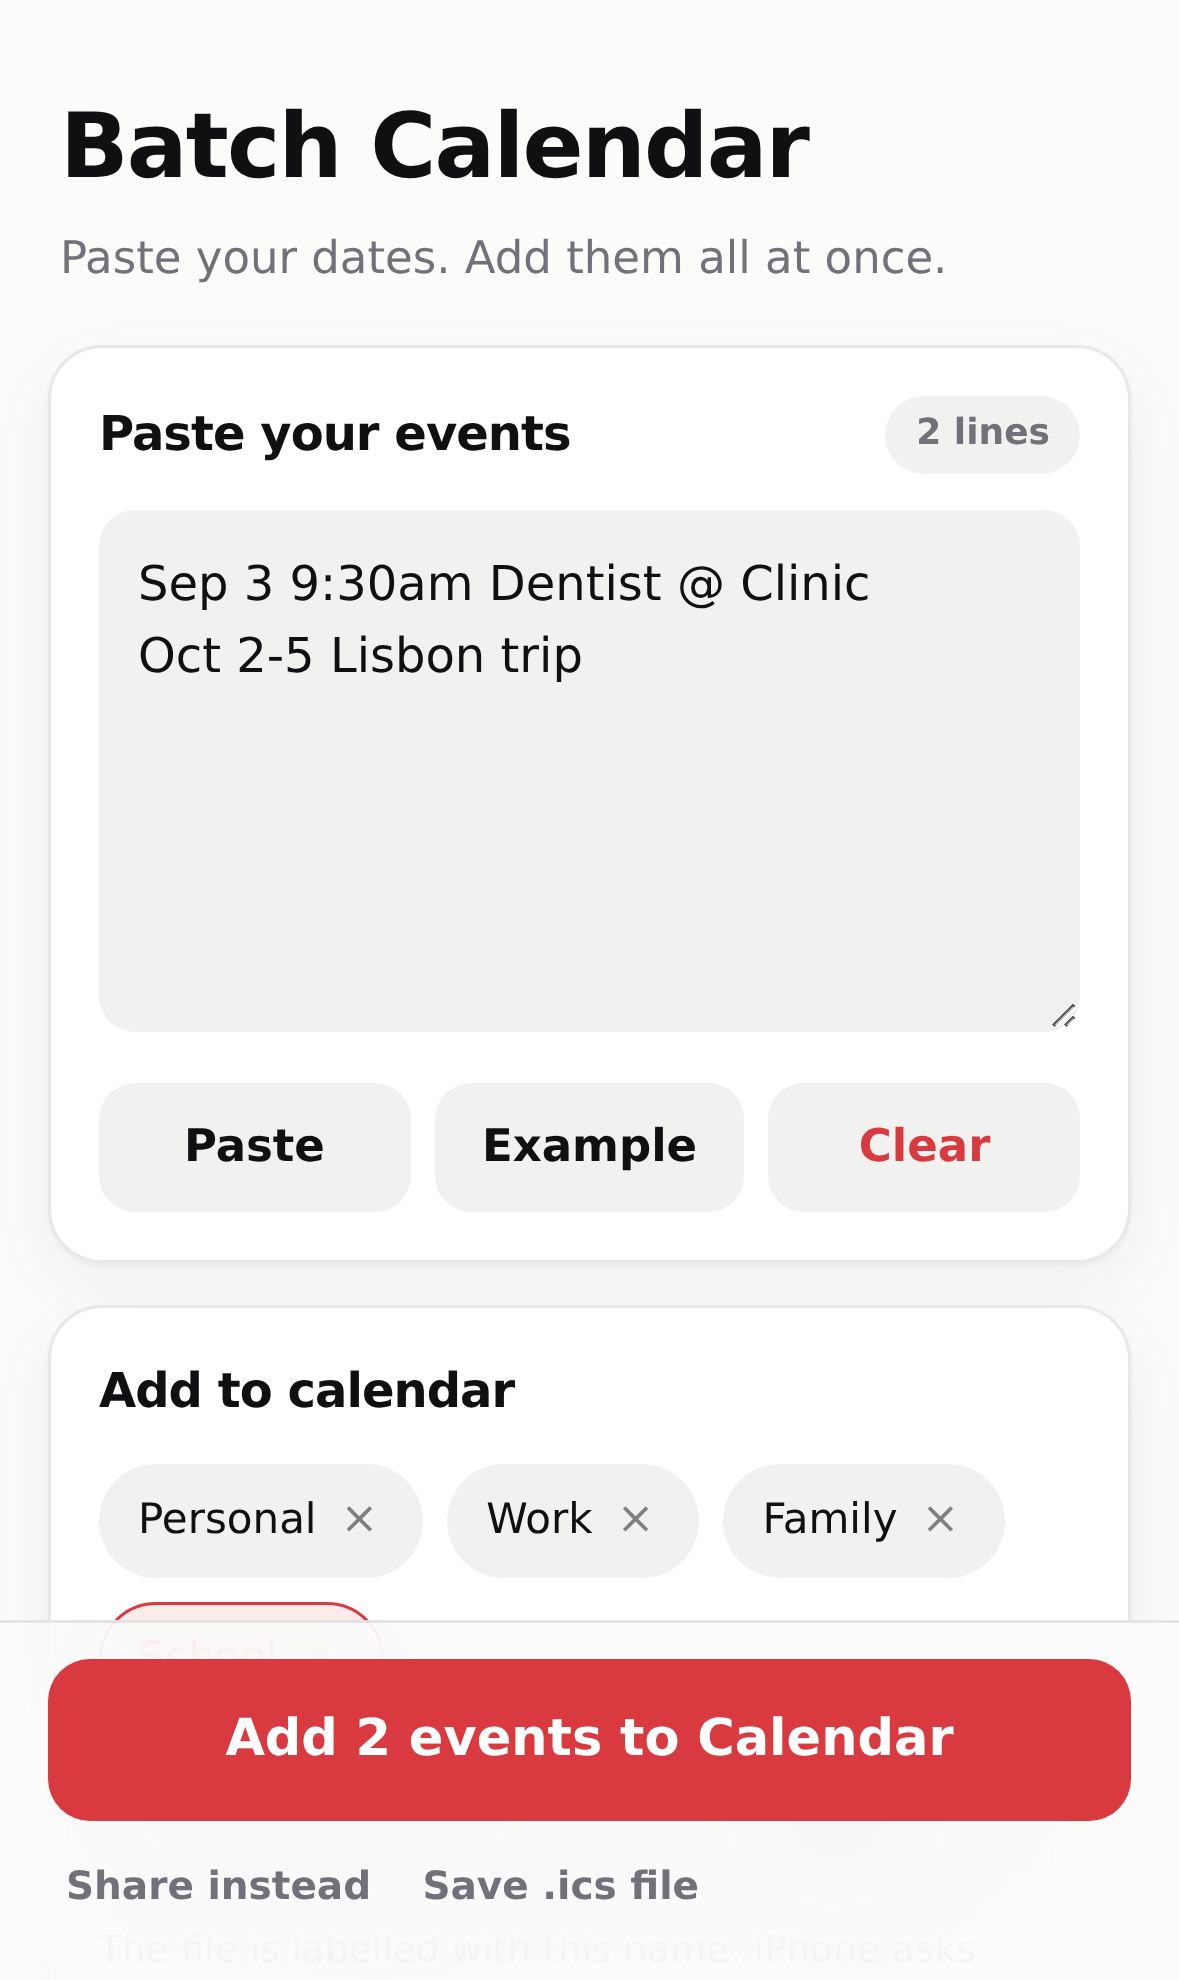
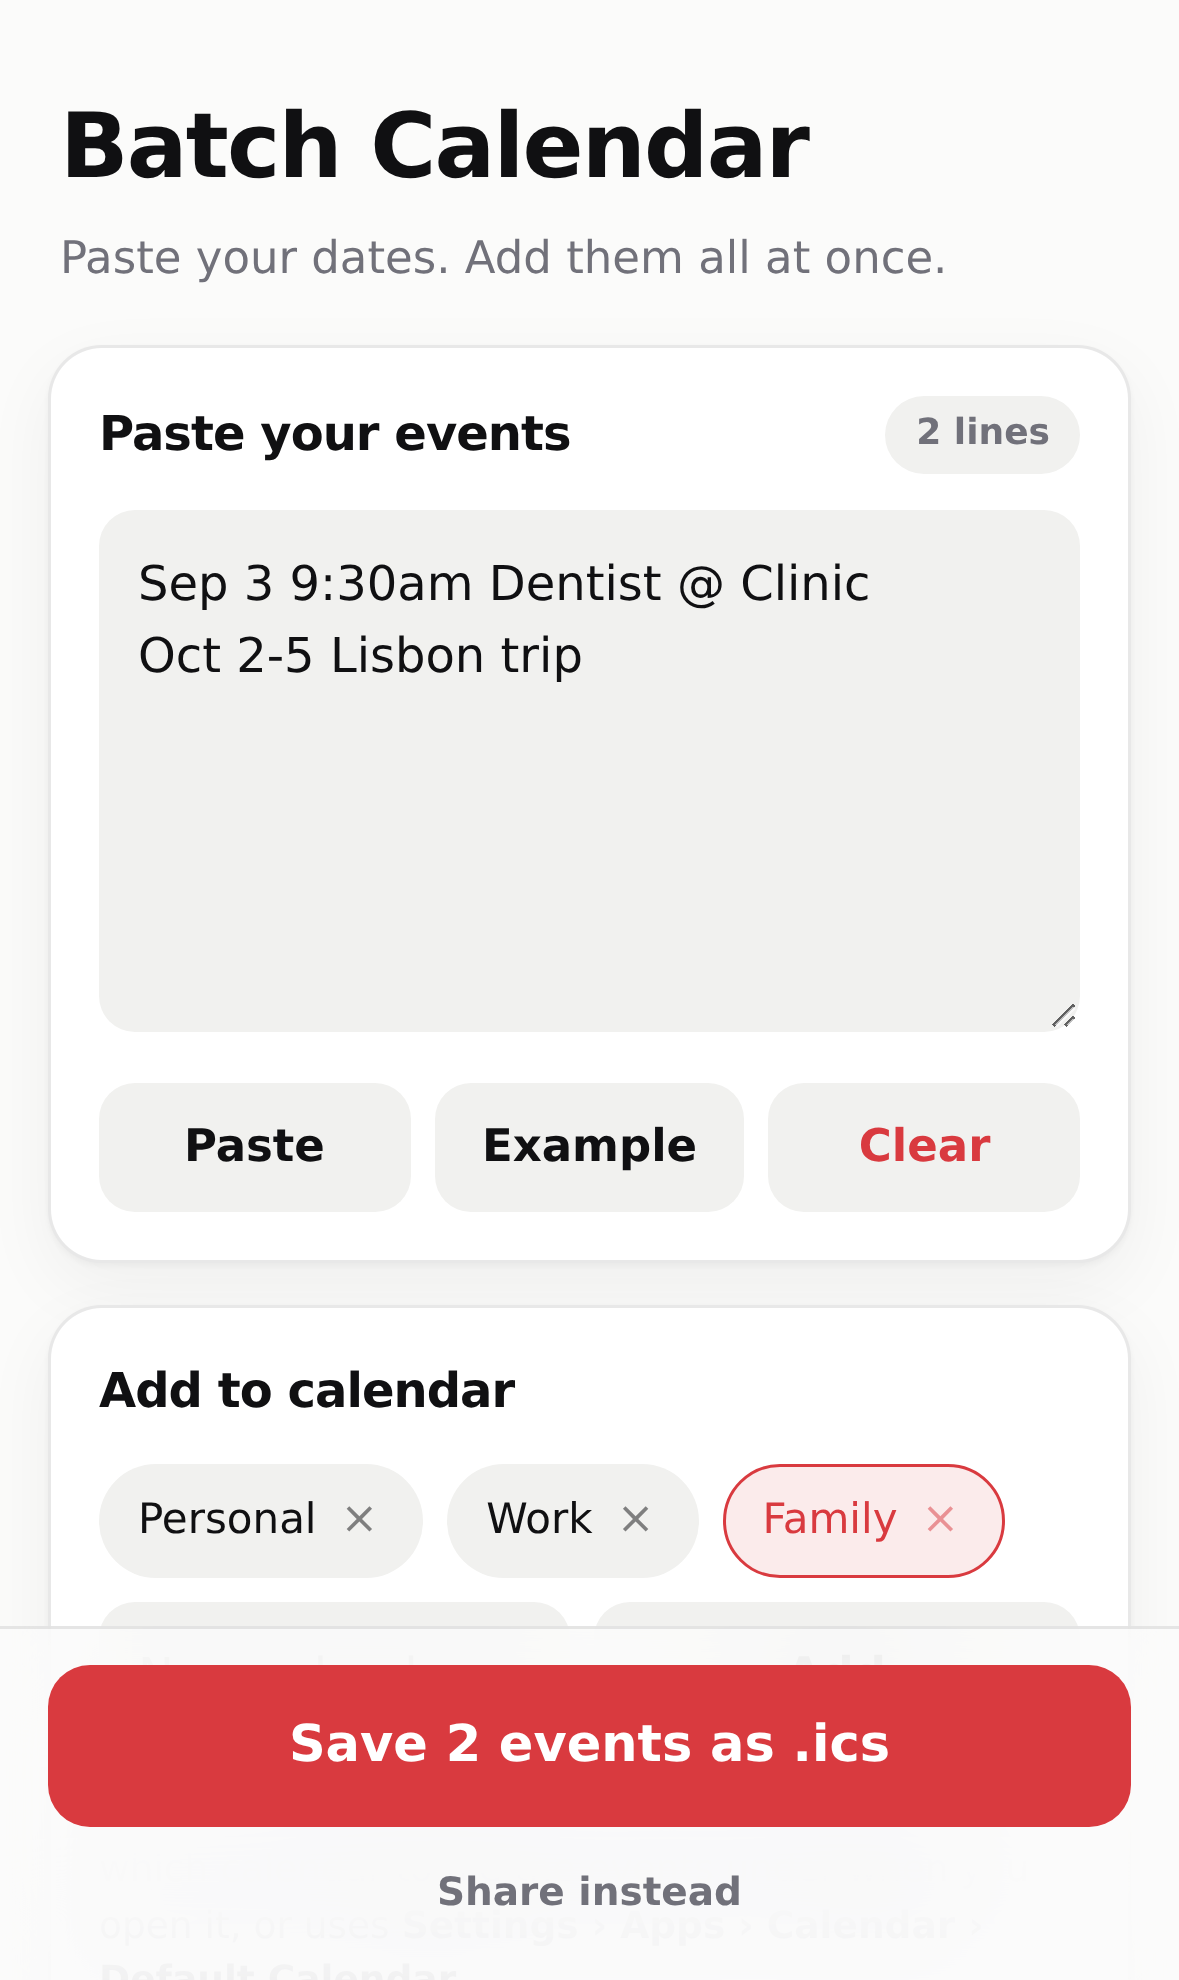
Make saving the file the main action
Saving the .ics and opening it from Files is what works on the phone,
so it becomes the large primary button, labelled with the number of
events it will write. Sharing drops to a quiet second line for sending
a list somewhere else, and falls back to saving where no share sheet
exists.

This also removes the service worker hand-off that shipped in the
previous version: the page no longer stages the batch in a cache for
the worker to serve as text/calendar, and the link that opened it is
gone. It was built for a problem that turned out not to exist, and it
was the button this change replaces.

METHOD:PUBLISH comes back to the file with it, so what gets saved is
byte-for-byte the format already confirmed working on the phone.

The help section now covers the two routes instead of guessing at
calendar pickers, and notes that saving again after an edit writes a
fresh file rather than changing one already saved.

Version goes to 1.3.0, past the 1.2.0 already deployed, so installed
copies pick the change up.

Claude-Session: https://claude.ai/code/session_01HNhjKiH9bVPzuXmCti7oSX

diff --git a/assets/app.js b/assets/app.js
@@ -18,7 +18,7 @@ const el = {
   alarm: $('alarm'), rollForward: $('roll-forward'),
   previewCard: $('preview-card'), list: $('event-list'), count: $('event-count'),
   skipped: $('skipped'), skippedList: $('skipped-list'), empty: $('empty-state'),
-  add: $('add'), share: $('share'), download: $('download'), dockMore: $('dock-more'), version: $('version'),
+  download: $('download'), share: $('share'), version: $('version'),
   banner: $('update-banner'), reload: $('update-reload'), dismiss: $('update-dismiss'),
 };
 
@@ -133,10 +133,9 @@ function paint() {
   el.count.classList.toggle('good', total > 0);
   el.previewCard.hidden = total === 0 && state.skipped.length === 0;
   el.empty.hidden = !el.previewCard.hidden;
-  el.add.textContent = total ? `Add ${total} ${total === 1 ? 'event' : 'events'} to Calendar` : 'Add to Calendar';
-  el.add.setAttribute('aria-disabled', String(total === 0));
-  el.dockMore.hidden = total === 0;
-  stageCalendar();
+  el.download.disabled = total === 0;
+  el.download.textContent = total ? `Save ${total} ${total === 1 ? 'event' : 'events'} as .ics` : 'Save .ics file';
+  el.share.hidden = total === 0;
 
   el.list.replaceChildren(...state.events.map(renderEvent));
 
@@ -246,45 +245,11 @@ function renderCalendars() {
 
 /* ---------------------------------------------------------------- delivery */
 
-const OUTBOX = 'batch-calendar-outbox';
-
 function icsForCurrentEvents() {
   return buildICS(state.events, {
     calendarName: state.calendar,
     alarmMinutes: state.options.alarm === '' ? null : Number(state.options.alarm),
   });
-}
-
-/*
- * iOS only opens a calendar file that arrives as a text/calendar *response* —
- * a saved .ics just sits in Files with no way in. So the file is written into
- * a cache the service worker serves from, and the button is a plain link to
- * it: tapping it hands the events to Calendar with no popup blocking.
- */
-let staging = Promise.resolve();
-function stageCalendar() {
-  // Runs on every render, so keep the writes in a queue: two overlapping
-  // stagings could otherwise leave a stale batch behind for the link to serve.
-  staging = staging.then(writeStagedCalendar).catch(() => {});
-  return staging;
-}
-
-async function writeStagedCalendar() {
-  el.add.removeAttribute('data-staged');
-  if (!state.events.length || !navigator.serviceWorker?.controller) return;
-
-  const url = new URL(`./${icsFilename(state.calendar)}?v=${Date.now()}`, location.href);
-  try {
-    const cache = await caches.open(OUTBOX);
-    for (const stale of await cache.keys()) await cache.delete(stale);
-    await cache.put(url, new Response(icsForCurrentEvents(), {
-      headers: { 'Content-Type': 'text/calendar; charset=utf-8', 'Cache-Control': 'no-store' },
-    }));
-    el.add.href = url.href;
-    el.add.setAttribute('data-staged', 'true');
-  } catch {
-    // Storage refused (private mode, no quota) — the fallbacks below still work.
-  }
 }
 
 function saveFile(text, filename) {
@@ -298,7 +263,14 @@ function saveFile(text, filename) {
   setTimeout(() => URL.revokeObjectURL(url), 10000);
 }
 
-/** The share sheet, where Calendar is one of the destinations. */
+/** The main action: write the batch out as a file to open from Files. */
+function saveCalendar() {
+  if (!state.events.length) return;
+  saveFile(icsForCurrentEvents(), icsFilename(state.calendar));
+  toast('Saved — open it from Files to add the events');
+}
+
+/** The share sheet, for sending the batch somewhere else. */
 async function shareCalendar() {
   if (!state.events.length) return;
   const text = icsForCurrentEvents();
@@ -313,8 +285,7 @@ async function shareCalendar() {
       if (error?.name === 'AbortError') return;   // the user closed the share sheet
     }
   }
-  saveFile(text, filename);
-  toast('Saved to Files — open it from there');
+  saveCalendar();   // no share sheet here — fall back to the file
 }
 
 /* ------------------------------------------------------------------- toast */
@@ -381,7 +352,6 @@ el.calendarForm.addEventListener('submit', (event) => {
   el.calendarNew.blur();
   save();
   renderCalendars();
-  stageCalendar();
 });
 
 const optionInputs = [
@@ -399,19 +369,8 @@ for (const [node, key, read] of optionInputs) {
   });
 }
 
-el.add.addEventListener('click', (event) => {
-  if (!state.events.length) return event.preventDefault();
-  if (el.add.hasAttribute('data-staged')) return toast('Tap Add All in Calendar');
-  // No service worker yet (first load, or it failed) — hand over the file instead.
-  event.preventDefault();
-  shareCalendar();
-});
-
+el.download.addEventListener('click', saveCalendar);
 el.share.addEventListener('click', shareCalendar);
-el.download.addEventListener('click', () => {
-  saveFile(icsForCurrentEvents(), icsFilename(state.calendar));
-  toast('Saved to Files — Add to Calendar opens it properly');
-});
 
 /* --------------------------------------------------- service worker updates */
 
@@ -453,7 +412,6 @@ function registerServiceWorker() {
   }).catch(() => { /* offline, or opened straight from the file system */ });
 
   el.dismiss.addEventListener('click', () => { el.banner.hidden = true; });
-  navigator.serviceWorker.ready.then(stageCalendar);
   showVersion();
 }
 

diff --git a/index.html b/index.html
@@ -53,8 +53,8 @@
         autocomplete="off" autocapitalize="words" enterkeyhint="done">
       <button type="submit" class="btn btn-quiet">Add</button>
     </form>
-    <p class="note">The file is labelled with this name. iPhone asks which calendar to file the events under when it
-      opens them, or uses <strong>Settings › Apps › Calendar › Default Calendar</strong>.</p>
+    <p class="note">The file is labelled with this name. iPhone asks which calendar to file the events under when
+      you open it, or uses <strong>Settings › Apps › Calendar › Default Calendar</strong>.</p>
   </section>
 
   <details class="card card-details" id="options">
@@ -118,21 +118,14 @@
   </section>
 
   <details class="card card-details">
-    <summary><h2>If the events do not open</h2><span class="chev" aria-hidden="true"></span></summary>
+    <summary><h2>Getting the events onto your calendar</h2><span class="chev" aria-hidden="true"></span></summary>
     <div class="options-grid">
-      <p class="note" style="margin-top:0">
-        <strong>Add to Calendar</strong> opens the events in Safari, which hands them straight to Calendar —
-        tap <strong>Add All</strong>. This is the route to use on iPhone.
-      </p>
-      <p class="note">
-        <strong>Share instead</strong> passes the file to the share sheet, where you can pick Calendar or send the
-        list to someone else.
-      </p>
-      <p class="note">
-        <strong>Save .ics file</strong> only puts the file in Files. Tapping it there shows a preview with no way to
-        import — that is iOS, not the file. To use a saved file, long-press it in Files and choose
-        <strong>Share</strong>, or just use <strong>Add to Calendar</strong> instead.
-      </p>
+      <p class="note" style="margin-top:0"><strong>Save .ics file</strong> saves the batch to Files. Open it from
+        there and add the events — this is the route to use on iPhone.</p>
+      <p class="note"><strong>Share instead</strong> passes the same file to the share sheet, for sending the list
+        to someone else or opening it in another app.</p>
+      <p class="note">The file holds every event in the preview. Saving again after an edit makes a fresh file
+        rather than changing the old one.</p>
     </div>
   </details>
 
@@ -154,11 +147,8 @@
 </main>
 
 <div class="dock">
-  <a id="add" class="btn btn-primary" href="#" target="_blank" rel="noopener" aria-disabled="true">Add to Calendar</a>
-  <div class="dock-row" id="dock-more" hidden>
-    <button type="button" id="share" class="btn btn-quiet btn-small">Share instead</button>
-    <button type="button" id="download" class="btn btn-quiet btn-small">Save .ics file</button>
-  </div>
+  <button type="button" id="download" class="btn btn-primary" disabled>Save .ics file</button>
+  <button type="button" id="share" class="btn btn-quiet btn-small" hidden>Share instead</button>
 </div>
 
 <footer class="footer">

diff --git a/sw.js b/sw.js
@@ -1,19 +1,13 @@
 /*
- * sw.js — offline shell, the update channel, and the calendar hand-off.
+ * sw.js — offline shell plus the update channel.
  *
  * Bump VERSION on every deploy: a new version installs alongside the old one,
  * tells the page a build is waiting, and only takes over when the user taps
  * Update (or every tab has closed).
- *
- * The hand-off matters on iOS: a saved .ics only ever opens in a Files
- * preview, but a URL answered with `Content-Type: text/calendar` is handed
- * to Calendar. The page stages the file in OUTBOX and opens its URL; the
- * fetch handler below answers with it.
  */
 
-const VERSION = '1.2.0';
+const VERSION = '1.3.0';
 const CACHE = `batch-calendar-${VERSION}`;
-const OUTBOX = 'batch-calendar-outbox';
 
 const SHELL = [
   './',
@@ -36,9 +30,7 @@ self.addEventListener('install', (event) => {
 self.addEventListener('activate', (event) => {
   event.waitUntil((async () => {
     const names = await caches.keys();
-    await Promise.all(names
-      .filter((name) => name !== CACHE && name !== OUTBOX)
-      .map((name) => caches.delete(name)));
+    await Promise.all(names.filter((name) => name !== CACHE).map((name) => caches.delete(name)));
     await self.clients.claim();
   })());
 });
@@ -57,12 +49,6 @@ self.addEventListener('fetch', (event) => {
   if (request.method !== 'GET' || new URL(request.url).origin !== self.location.origin) return;
 
   event.respondWith((async () => {
-    // The calendar file the page staged for this tap, served as text/calendar.
-    if (new URL(request.url).pathname.endsWith('.ics')) {
-      const staged = await (await caches.open(OUTBOX)).match(request, { ignoreSearch: true });
-      if (staged) return staged;
-    }
-
     const cache = await caches.open(CACHE);
     const cached = await cache.match(request, { ignoreSearch: true });
 

diff --git a/assets/styles.css b/assets/styles.css
@@ -166,11 +166,7 @@ select.field { background-image: none; }
   font-weight: 600;
   border-radius: 14px;
 }
-.btn-small { font-size: 13px; background: transparent; color: var(--muted); padding: 8px 6px; }
-a.btn { display: block; text-align: center; text-decoration: none; }
-a.btn[aria-disabled="true"] { opacity: 0.4; }
-.dock-row { display: flex; gap: 8px; margin-top: 6px; }
-.dock-row .btn { flex: 1; }
+.btn-small { width: 100%; margin-top: 8px; font-size: 13px; background: transparent; color: var(--muted); padding: 6px; }
 
 /* ------------------------------------------------------------------- chips */
 

diff --git a/assets/ics.js b/assets/ics.js
@@ -110,6 +110,7 @@ export function buildICS(events, { calendarName = 'Batch Calendar', alarmMinutes
     'VERSION:2.0',
     'PRODID:-//Batch Calendar//Batch Add for iPhone//EN',
     'CALSCALE:GREGORIAN',
+    'METHOD:PUBLISH',
     `X-WR-CALNAME:${escapeText(calendarName)}`,
   ];
   for (const event of events) lines.push(...buildEvent(event, { alarmMinutes, stamp }));

diff --git a/README.md b/README.md
@@ -23,17 +23,14 @@ works offline once it has been added to the Home Screen.
 3. **Check the preview** — tap any event to fix the title, dates, times, location
    or notes, or to remove it. Your corrections stick even if you keep typing in
    the paste box.
-4. **Add to Calendar** — the events open in Safari, which hands them to
-   Calendar. Tap **Add All** and pick the calendar to file them under.
+4. **Save .ics file** — the batch is written to Files. Open it from there and
+   add the events, picking the calendar to file them under.
+
+**Share instead** sits under the save button and passes the same file to the
+share sheet — handy for sending a list to someone else.
 
 If iPhone drops events into the wrong calendar, set the one you want under
 **Settings › Apps › Calendar › Default Calendar**, or add one batch per calendar.
-
-Two fallbacks sit under the button. **Share instead** passes the file to the
-share sheet — useful for sending the list to someone else. **Save .ics file**
-only writes it to Files; tapping it there opens a preview with no way to import,
-which is an iOS limitation rather than a problem with the file, so use **Add to
-Calendar** unless you actually want the file.
 
 ### Lines it understands
 
@@ -79,19 +76,11 @@ attach an alert to every event in the batch.
 
 iOS gives web apps no direct access to Calendar, so the app builds a standard
 [iCalendar](https://datatracker.ietf.org/doc/html/rfc5545) (`.ics`) file — the same
-format Calendar imports from Mail. Times are written as local ("floating") times,
-so 3pm stays 3pm wherever you are.
+format Calendar imports from Mail — and saves it for you to open. Times are written
+as local ("floating") times, so 3pm stays 3pm wherever you are.
 
-Getting that file into Calendar is the fiddly part. iOS will not import a *saved*
-file: tap an `.ics` in Files and you get a preview with no import action. What it
-does open is a *response* whose `Content-Type` is `text/calendar`. So the app
-writes the file into a cache the service worker serves from, and the button is an
-ordinary link to that URL — the worker answers with the right content type and iOS
-takes it from there. The link opens outside the installed app so Safari, rather
-than the web app's own view, handles the file.
-
-That also keeps the button working with no popup blocking: the file is staged
-whenever the preview changes, so the tap is just a link.
+Each save writes a fresh file named after the chosen calendar; editing the preview
+and saving again does not change a file you already saved.
 
 ## Updates
 
@@ -121,7 +110,7 @@ npm run icons                  # re-render the PNG icons from icons/icon.svg
 | `assets/parser.js` | turns each pasted line into one or more events |
 | `assets/ics.js` | builds the `.ics` file |
 | `assets/app.js` | state, rendering, sharing, update banner |
-| `sw.js` | offline cache, update channel, and serving the staged `.ics` |
+| `sw.js` | offline cache and update channel |
 
 ## Publishing
 
